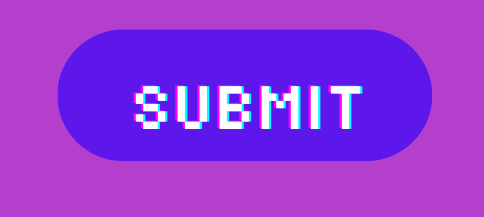
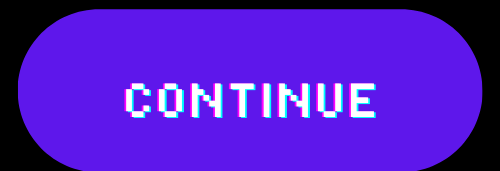
Add name input to be before game starts

diff --git a/src/scenes/inputPanel.js b/src/scenes/inputPanel.js
@@ -4,43 +4,32 @@ import { setScore } from '../leaderboard/leaderboard';
 
 export default class InputPanel extends Phaser.Scene {
   constructor() {
-    super('rexUI');
+    super('nameInput');
   }
 
   create() {
     this.add.image(480, 200, 'namerequest').setScale(1.15);
-    const text = this.add.text(400, 300, 'Default User', {
-      fixedWidth: 150,
-      fixedHeight: 36,
-    });
+    this.message = this.add.text(400, 250, "Press ENTER when done", {
+      color: "#FFFFFF",
+      fontSize: 20,
+      fontStyle: "bold"
+    }).setOrigin(0.5);
 
-    text.setOrigin(0.5, 0.5);
-
-    text.setInteractive().on('pointerdown', (event) => {
-      const input = this.rexUI.edit(text);
-      const code = event.keyCode;
-
-      if (code === Phaser.Input.Keyboard.KeyCodes.ENTER) {
-        input.close();
-        const elem = input.inputText.node.value;
-
-        localStorage.setItem('playername', elem);
-      }
-    });
-    const submit = this.add.image(240, 400, 'submitbtn').setScale(0.75);
-    const mainMenu = this.add.image(500, 400, 'mainmenubtn').setScale(0.75);
-    submit.setInteractive().on('pointerdown', () => {
-      const username = localStorage.getItem('playername');
-      const gameDetails = {
-        user: username,
-        score: kills,
+    this.nameInput = this.add.dom(400, 300).createFromCache('form');
+    this.returnKey = this.input.keyboard.addKey(Phaser.Input.Keyboard.KeyCodes.ENTER);
+    this.returnKey.on('down', () => {
+      let name = this.nameInput.getChildByName('name');
+      if (name.value != "") {
+        localStorage.setItem('playername', name.value);
+        name.value = "";
       };
-      setScore(gameDetails);
-      window.open('../src/leaderboard/leaderboard.html', '_blank');
     });
-    mainMenu.setInteractive().on('pointerdown', () => {
-      this.game.destroy(true);
-      window.location.reload();
+    const submit = this.add.image(400, 400, 'continue').setScale(0.45);
+    submit.setInteractive().on('pointerdown', () => {
+      this.scene.start('titleScene');
+      
+      
     });
+   
   }
 }

diff --git a/src/scenes/PreloaderScene.js b/src/scenes/PreloaderScene.js
@@ -76,6 +76,9 @@ export default class PreloaderScene extends Phaser.Scene {
     this.timedEvent = this.time.delayedCall(10000, this.ready, [], this);
 
     this.load.image('background', 'assets/background.png');
+    this.load.html('form', 'dist/form.html');
+    this.load.image('continue', 'assets/submitbtn.png');
+    this.load.image('newgame', 'assets/newgamebtn.png');
     this.load.image('player', 'assets/player.png');
     this.load.image('bullet', 'assets/bullet.png');
     this.load.image('joystick', 'assets/joystick.png');
@@ -85,20 +88,19 @@ export default class PreloaderScene extends Phaser.Scene {
     this.load.image('killedmenu', 'assets/killedmenu.png');
     this.load.image('continuebtn', 'assets/continuebtn.png');
     this.load.image('quitbutton', 'assets/quitbutton.png');
-    this.load.image('gameoverscreen', 'assets/gameover.png');
+    this.load.image('gameoverscreen', 'assets/over.png');
     this.load.image('namerequest', 'assets/namerequest.png');
-    this.load.image('submitbtn', 'assets/leaderboardviewbtn.png');
-    this.load.image('mainmenubtn', 'assets/mainmenu.png');
+    this.load.image('viewboard', 'assets/viewboard.png');
     this.load.audio('laser', 'assets/laser.wav');
     this.load.audio('gameover', 'assets/gameover.wav');
     this.load.plugin('rexvirtualjoystickplugin', rexvirtualjoystickplugin, true);
   }
 
   ready() {
-    this.scene.start('titleScene');
+    this.scene.start('nameInput');
     this.readyCount += 1;
     if (this.readyCount === 2) {
-      this.scene.start('titleScene');
+      this.scene.start('nameInput');
     }
   }
 }

diff --git a/src/scenes/GameOverScene.js b/src/scenes/GameOverScene.js
@@ -1,5 +1,5 @@
 import Phaser from 'phaser';
-
+import { setScore } from '../leaderboard/leaderboard';
 import { kills } from './GameScene';
 
 export default class GameOverScene extends Phaser.Scene {
@@ -8,20 +8,21 @@ export default class GameOverScene extends Phaser.Scene {
   }
 
   create() {
-    const button = this.add.image(450, 270, 'gameoverscreen').setScale(1.25);
-    button.setInteractive();
-    const self = this;
-    this.input.on('gameobjectdown', () => {
-      self.registry.destroy();
-      self.events.off();
-      self.scene.start('gameScene');
+    const username = localStorage.getItem('playername');
+    const gameDetails = {
+      user: username,
+      score: kills,
+    };
+    setScore(gameDetails);
+    this.add.image(450, 200, 'gameoverscreen').setScale(1.25);
+    const viewboard = this.add.image(240, 400, 'viewboard').setScale(0.5);
+    const newgame = this.add.image(500, 400, 'newgame').setScale(0.5);
+    viewboard.setInteractive().on('pointerdown', () => {
+      window.open('../src/leaderboard/leaderboard.html', '_blank');
     });
-    this.message = this.add
-      .text(400, 320, kills, {
-        color: '#FFFFFF',
-        fontSize: 60,
-        fontStyle: 'bold',
-      })
-      .setOrigin(0.5);
+    newgame.setInteractive().on('pointerdown', () => {
+      this.game.destroy(true);
+      window.location.reload();
+    })
   }
 }

diff --git a/src/scenes/lifeEndedScene.js b/src/scenes/lifeEndedScene.js
@@ -1,5 +1,6 @@
 import Phaser from 'phaser';
-
+import { setScore } from '../leaderboard/leaderboard';
+import { kills } from './GameScene';
 export default class LifeEndedScene extends Phaser.Scene {
   constructor() {
     super('lifeEndedScene');
@@ -11,11 +12,10 @@ export default class LifeEndedScene extends Phaser.Scene {
     const continuebtn = this.add
       .image(500, 400, 'continuebtn')
       .setInteractive();
-
     quitbutton.on('pointerdown', () => {
       this.registry.destroy();
       this.events.off();
-      this.scene.start('rexUI');
+      this.scene.start('gameOver');
     }, this);
     continuebtn.on('pointerdown', () => {
       this.registry.destroy();

diff --git a/src/index.js b/src/index.js
@@ -50,8 +50,8 @@ class Game extends Phaser.Game {
   constructor() {
     super(config);
     this.scene.add('BootScene', BootScene);
-    this.scene.add('rexUI', InputPanel);
     this.scene.add('Preloader', PreloaderScene);
+    this.scene.add('nameInput', InputPanel);
     this.scene.add('titleScene', TitleScene);
     this.scene.add('gameScene', GameScene);
     this.scene.add('lifeEndedScene', LifeEndedScene);

diff --git a/src/leaderboard/leaderboard.html b/src/leaderboard/leaderboard.html
@@ -15,7 +15,7 @@
 <body>
    <h1 class="leaderboardheader">Leaderboard</h1>
     <div id="container">
-        <script src="../helpers/leaderindex.js" defer></script>
+        <script src="../../dist/leaderindex.js" defer></script>
     </div>
 </body>
 

diff --git a/src/scenes/GameScene.js b/src/scenes/GameScene.js
@@ -195,7 +195,7 @@ export default class GameScene extends Phaser.Scene {
       life -= 1;
       this.scene.start('lifeEndedScene');
     } else {
-      this.scene.start('rexUI');
+      this.scene.start('gameOver');
     }
   }
 }

diff --git a/dist/form.html b/dist/form.html
@@ -1,0 +1,10 @@
+<!DOCTYPE html>
+<html>
+    <head>
+    </head>
+    <body>
+        <div id="input-form">
+            <input type="text" name="name" placeholder="Full Name" />
+        </div>
+    </body>
+</html>

diff --git a/assets/stylesheets/style.css b/assets/stylesheets/style.css
@@ -48,3 +48,12 @@ html {
   width: 20%;
   height: 150px;
 }
+#input-form {
+  padding: 15px;
+  background-color: #931C22;
+}
+#input-form input {
+  padding: 10px;
+  font-size: 20px;
+  width: 400px;
+}
